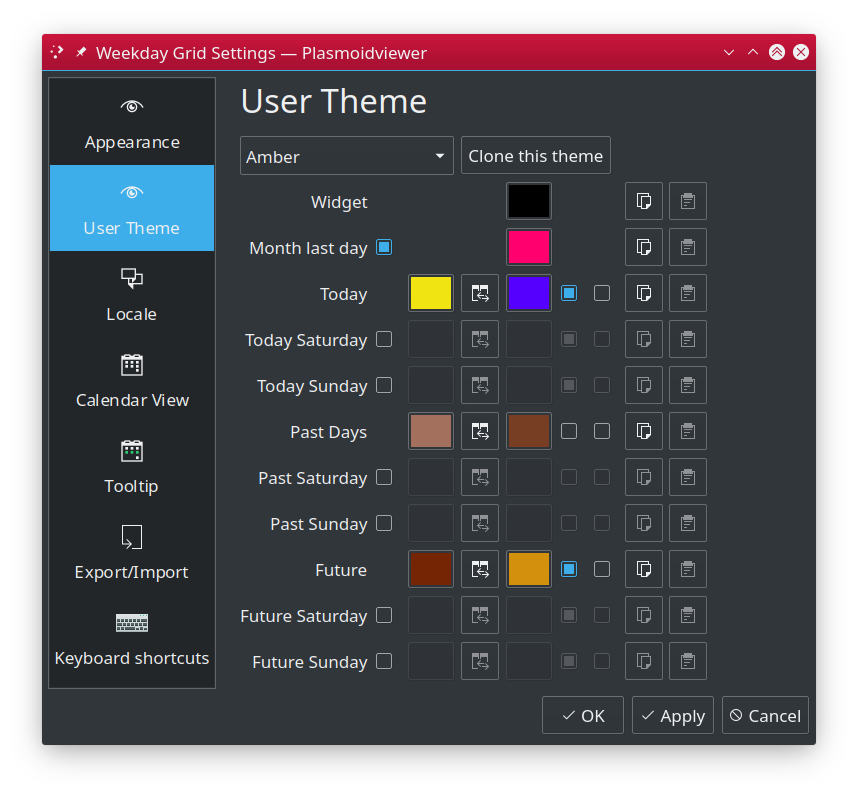
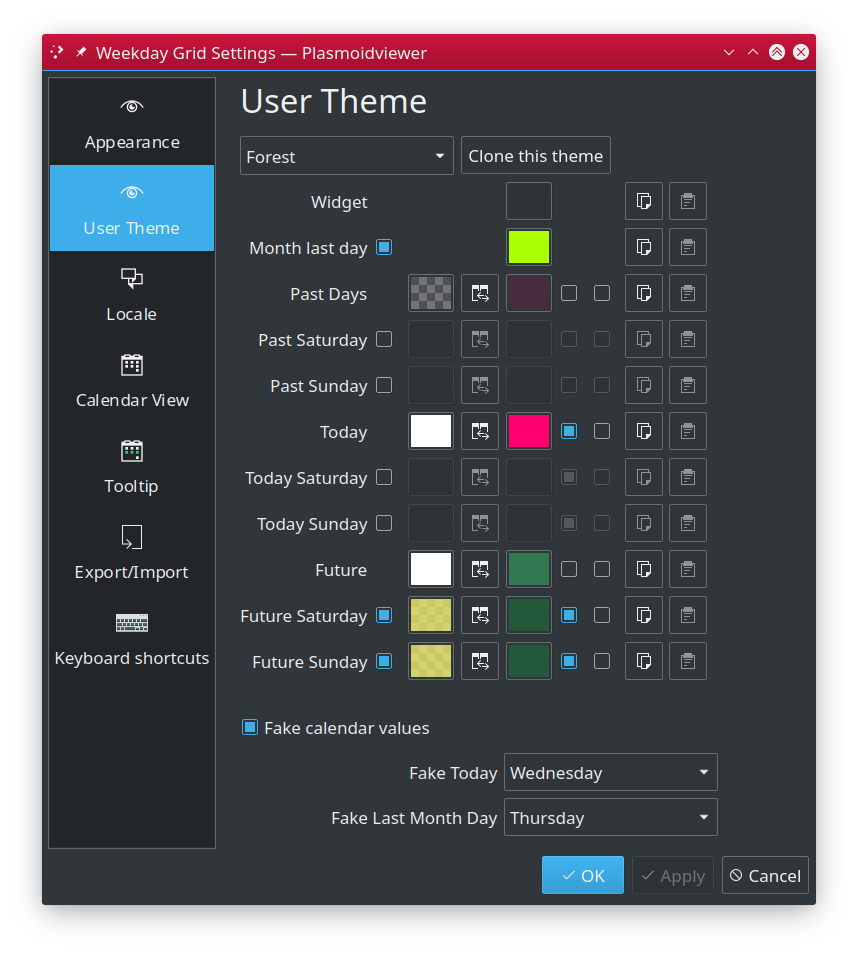
Updated docs

diff --git a/README.md b/README.md
@@ -51,6 +51,7 @@ Allows you to select one of predefined color theme or use custom color styles, a
 
 Allows you to create own color style, either from scratch or using existing theme as your starting point.
 
+
 ![Appearance](img/config-theme.png)
 
  * **Clone this theme**: Copies colors from selected source built-in theme to custom color editior.
@@ -68,6 +69,12 @@ Allows you to create own color style, either from scratch or using existing them
  * **Future**: appearance of remaining, future days of the week.
  * **Furure Saturday**: optional, separate appearance of future Saturday. If not enabled, "Future" will be used.
  * **Future Sunday**: optional, separate appearance of future Sunday. If not enabled, "Future" will be used.
+
+#### Fake calendar ####
+
+To make theme testing easier you can enable "Fake calendar" feature and manually configure data passed to Weekday Grid
+such as day of today and last day of the month. All other appearance settings (incl. i.e. localization, day labels,
+first day of week) are also honored.
 
 #### Item settings ####
 

diff --git a/CHANGES.md b/CHANGES.md
@@ -8,6 +8,7 @@
   * Theme switcher no longer changes theme instantly bug follows Apply/Cancel pattern.
   * Separated user theme configuration pane from Appearance config.
   * Replaced use of Timer with hour aligned data source to make widged less resource hungry.
+  * Theme editor features "Fake calendar" mode now, to make theme testing a breeze.
   * Fixed widget tooltip's sub-text not working properly.
 
 * v1.4.0 (2021-01-10)
